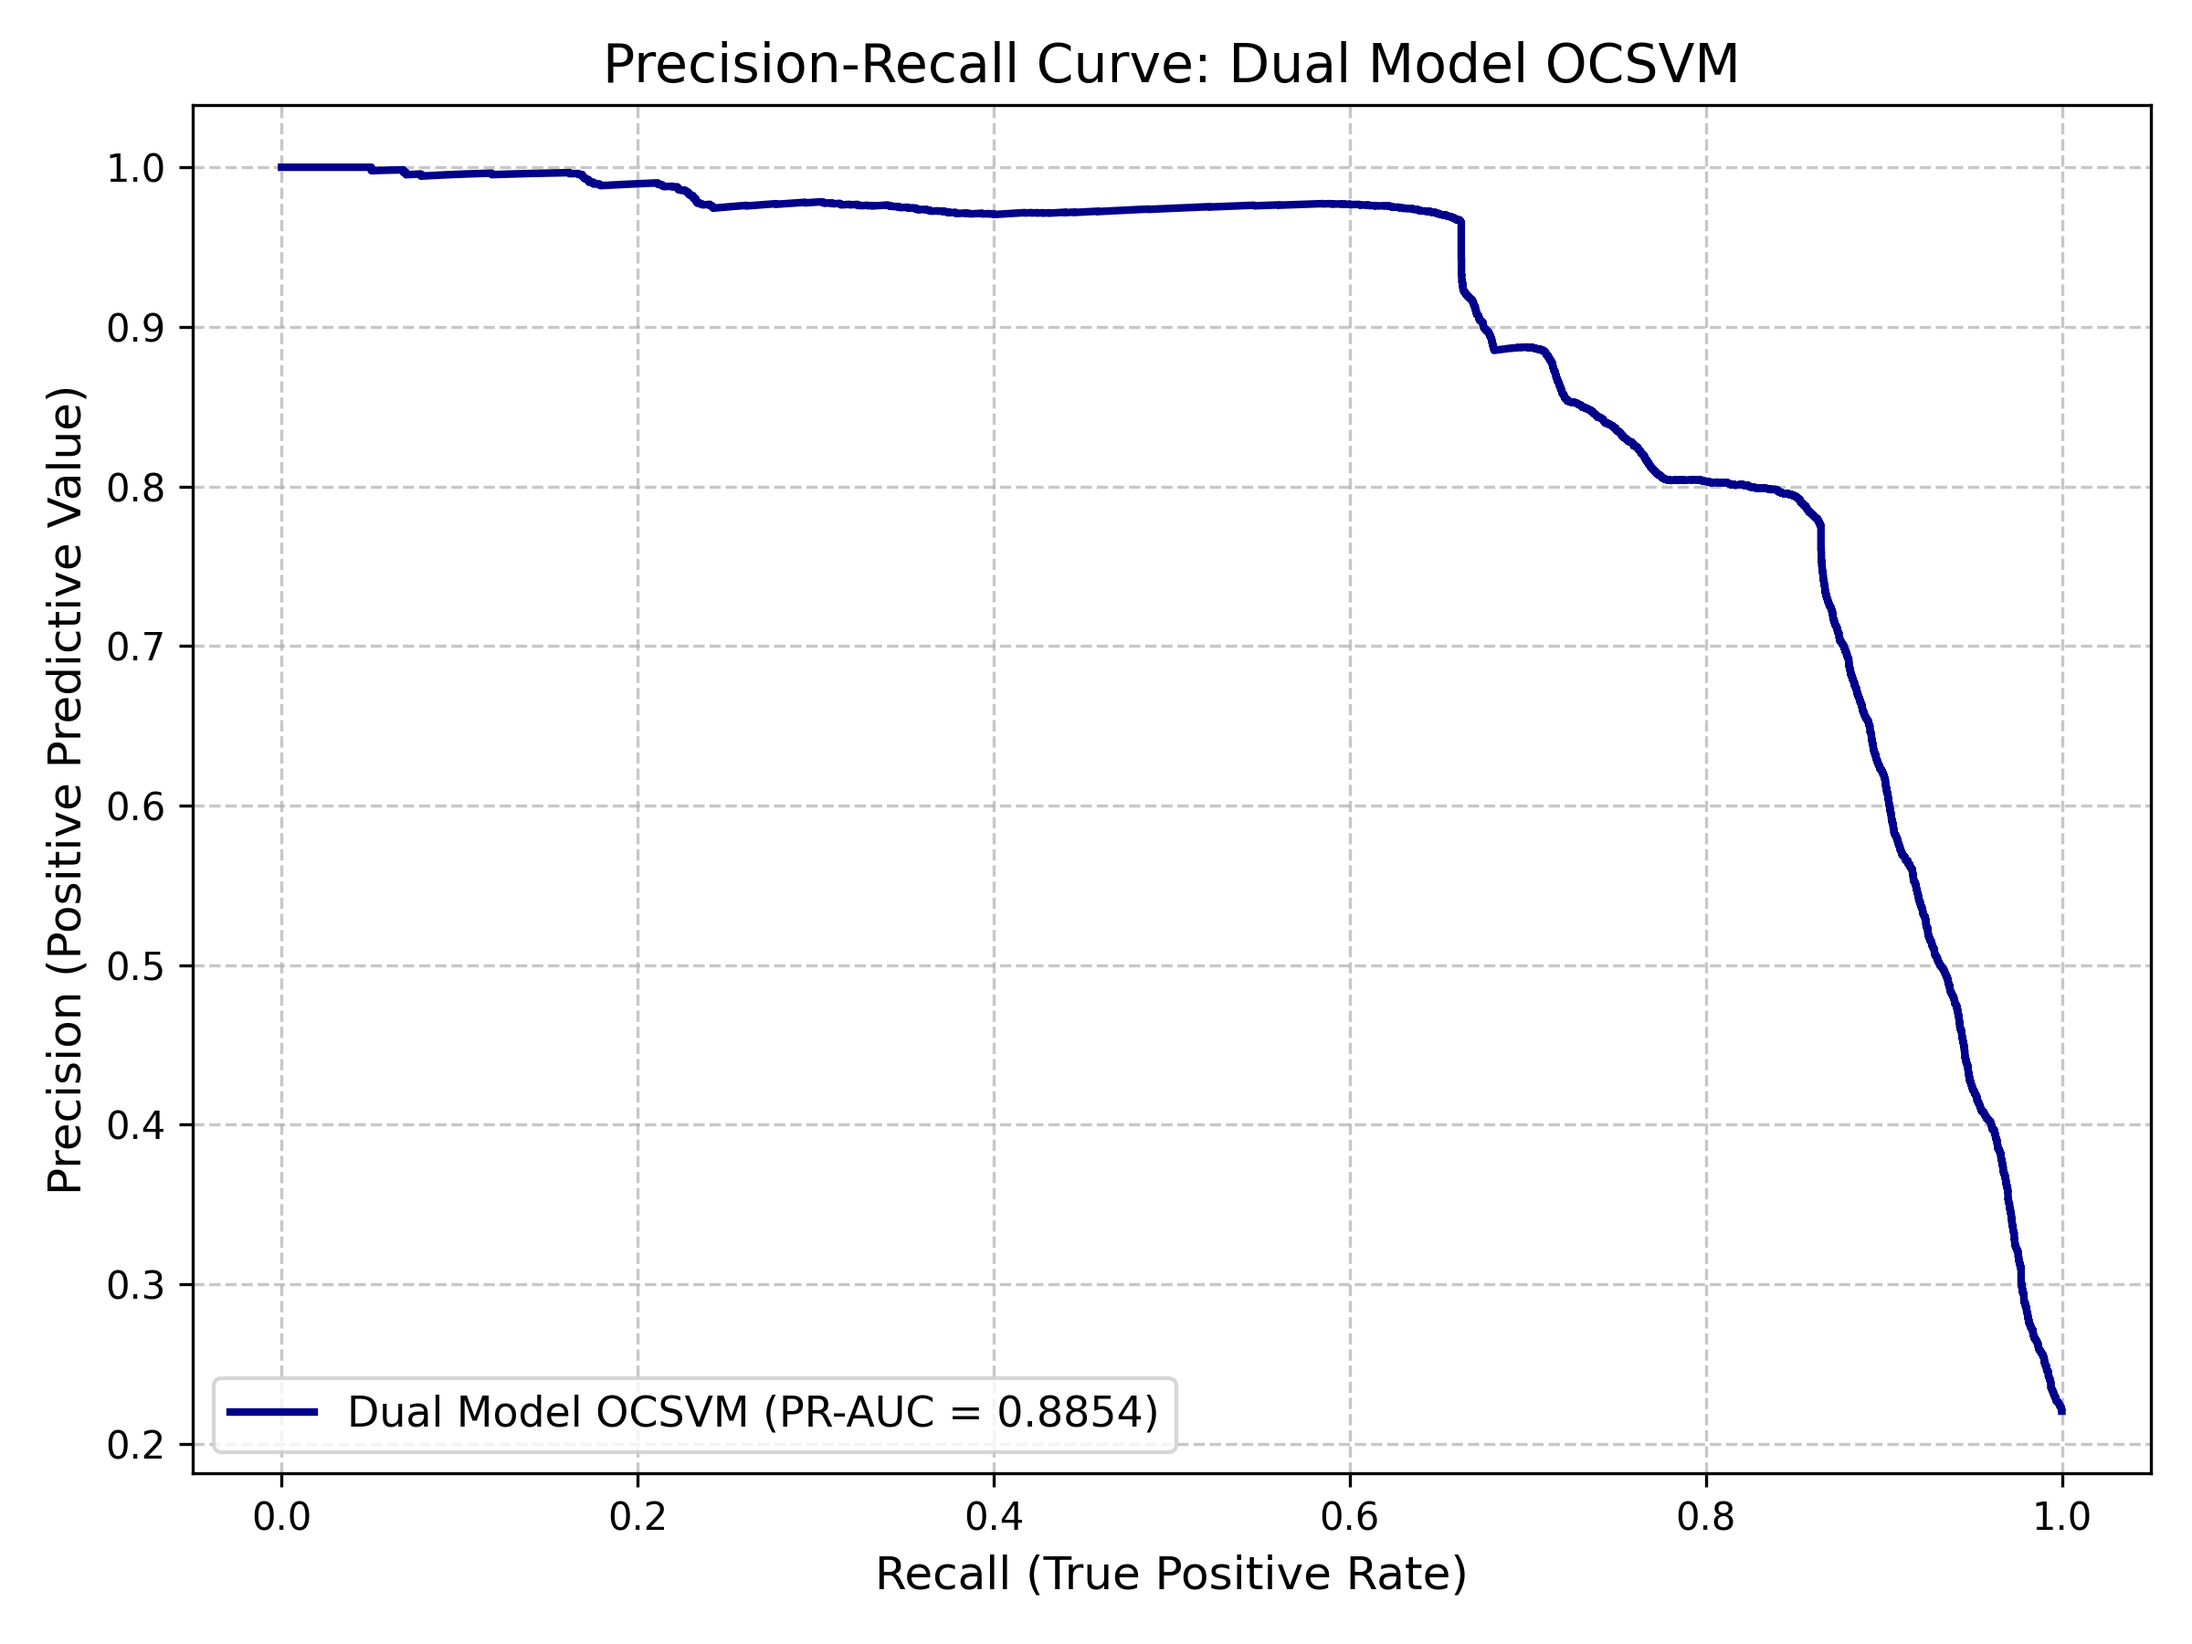
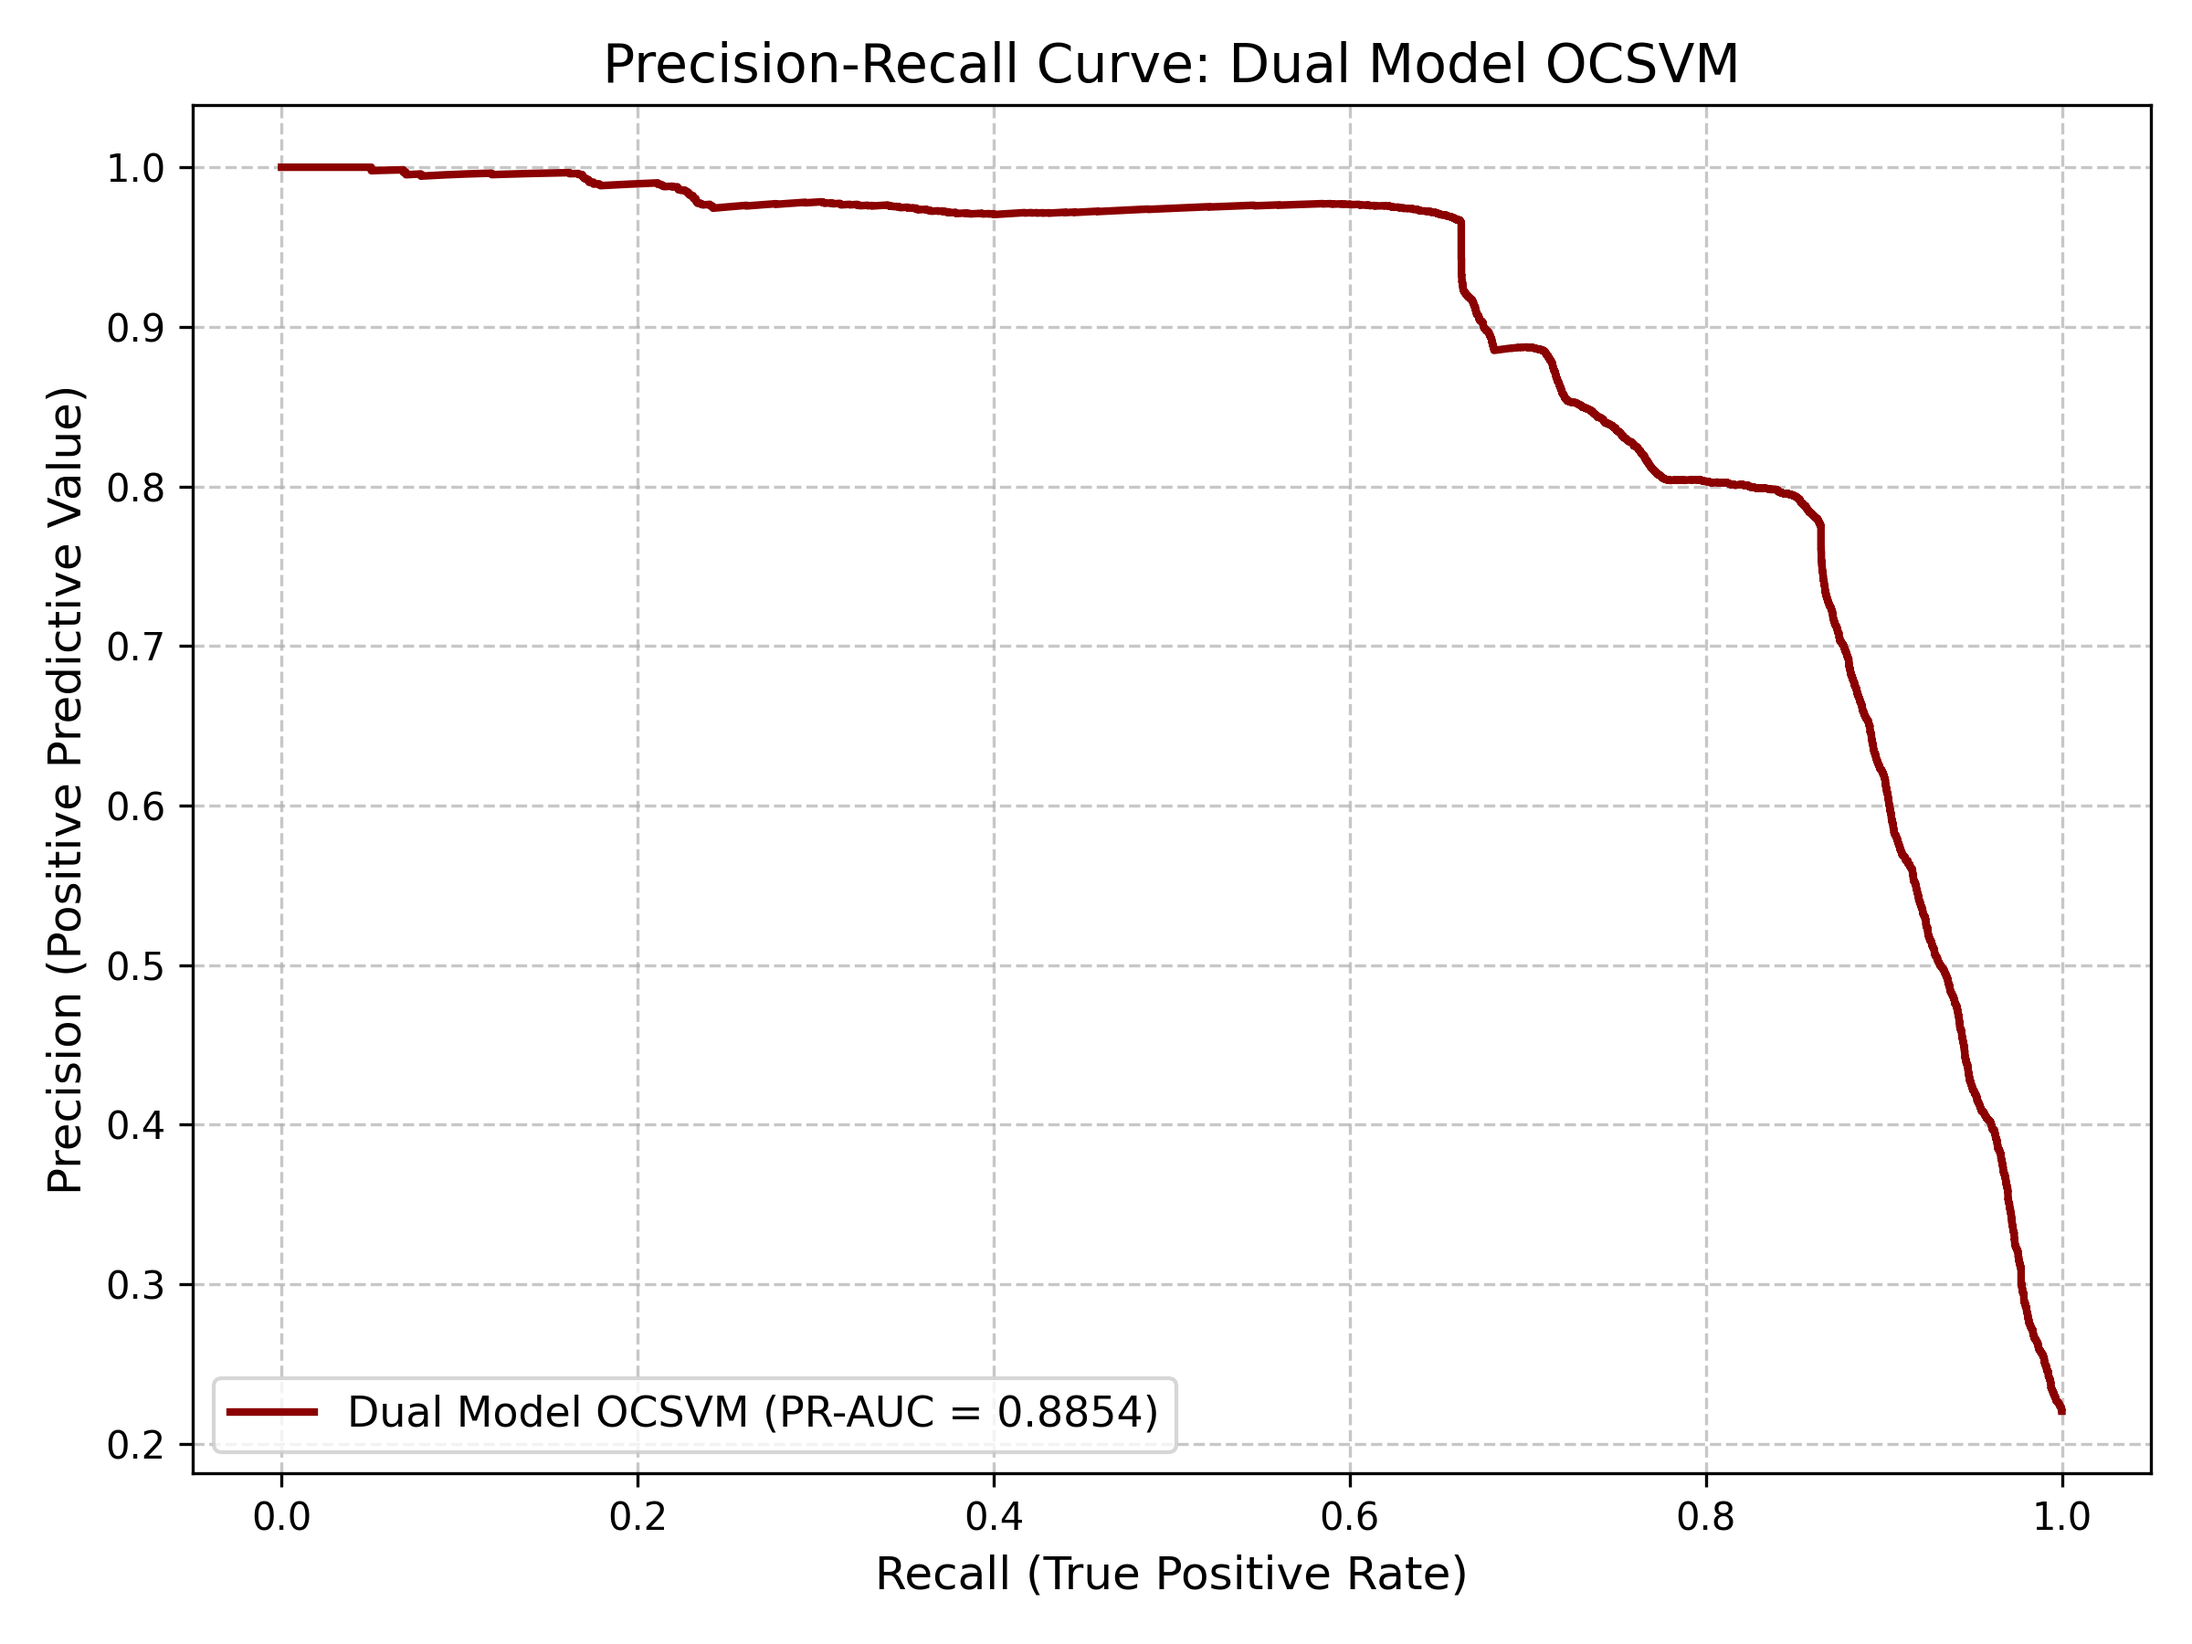
Fixes

diff --git a/Dataset/singlePacketSplitter.py b/Dataset/singlePacketSplitter.py
@@ -1,6 +1,7 @@
 import csv
 import random
 
+# --- CONFIGURATION ---
 # Input files
 NORMAL_FILE = "/home/spritz/storage/disk0/Master_Thesis/Dataset/normal_traffic.txt"
 ATTACK_FILE = "/home/spritz/storage/disk0/Master_Thesis/Dataset/attack_traffic.txt"
@@ -9,6 +10,8 @@ ATTACK_FILE = "/home/spritz/storage/disk0/Master_Thesis/Dataset/attack_traffic.t
 TRAIN_FILE = "train.txt"
 VAL_FILE = "validation.txt"
 TEST_FILE = "test.txt"
+
+COL_IDX_TIME = 5 # L'indice del timestamp (in base alla tua struttura dati)
 
 # -----------------------
 # Step 1: Load normal and attack CSV rows
@@ -65,11 +68,35 @@ def write_csv(path, rows):
         writer.writerows(rows)
 
 print("Writing splits...")
-write_csv(f"/home/spritz/storage/disk0/Master_Thesis/Dataset/splits/{TRAIN_FILE}", train_rows)
-write_csv(f"/home/spritz/storage/disk0/Master_Thesis/Dataset/splits/{VAL_FILE}", val_rows)
-write_csv(f"/home/spritz/storage/disk0/Master_Thesis/Dataset/splits/{TEST_FILE}", test_rows)
+write_csv(f"/home/spritz/storage/disk0/Master_Thesis/Dataset/singlePacketSplits/{TRAIN_FILE}", train_rows)
+write_csv(f"/home/spritz/storage/disk0/Master_Thesis/Dataset/singlePacketSplits/{VAL_FILE}", val_rows)
+write_csv(f"/home/spritz/storage/disk0/Master_Thesis/Dataset/singlePacketSplits/{TEST_FILE}", test_rows)
 
-print(f"Files created successfully:")
+
+# -----------------------
+# Step 5: Calculate Test Set Duration
+# -----------------------
+try:
+    # Estraiamo tutti i timestamp dal test set e li convertiamo in float
+    timestamps = [float(row[COL_IDX_TIME]) for row in test_rows if len(row) > COL_IDX_TIME]
+    
+    if timestamps:
+        min_ts = min(timestamps)
+        max_ts = max(timestamps)
+        test_duration_seconds = max_ts - min_ts
+        test_duration_hours = test_duration_seconds / 3600.0
+    else:
+        test_duration_seconds = 0.0
+        test_duration_hours = 0.0
+except Exception as e:
+    print(f"Warning: Impossibile calcolare il tempo. Errore: {e}")
+    test_duration_hours = 0.0
+
+# --- STAMPA FINALE ---
+print(f"\nFiles created successfully:")
 print(f"  {TRAIN_FILE}: {len(train_rows)} rows")
 print(f"  {VAL_FILE}: {len(val_rows)} rows")
 print(f"  {TEST_FILE}: {len(test_rows)} rows ({len(test_normal_rows)} Benign + {len(test_attack_rows)} Attack)")
+print(f"\n=============================================")
+print(f"Durata Fisica del Test Set: {test_duration_hours:.2f} Ore")
+print(f"=============================================")

diff --git a/DualModelDetection/oneClassClassifierDetection/OCSVM-ISODetection.py b/DualModelDetection/oneClassClassifierDetection/OCSVM-ISODetection.py
@@ -129,12 +129,15 @@ def advanced_evaluation_for_reviewers(y_true, y_probs, model_name):
 
     matched_preds = (y_probs > matched_th).astype(int)
     cm = confusion_matrix(y_true, matched_preds)
-    matched_f1 = f1_score(y_true, matched_preds, zero_division=0)
-
+    
+    # Generate the full classification report
+    report = classification_report(y_true, matched_preds, digits=4, target_names=["Benign", "Attack"], zero_division=0)
     print(f"\n--- Performance at Matched FPR ---")
     print(f"Target FPR: {TARGET_FPR_MATCH*100:.2f}% | Actual FPR Achieved: {actual_fpr*100:.2f}%")
     print(f"Matched Threshold: {matched_th:.4f}")
-    print(f"F1-Score: {matched_f1:.4f}")
+    # Print the full table instead of just the F1-score
+    print("\nClassification Report:")
+    print(report)
     print(f"Confusion Matrix:\n[TP: {cm[1][1]:<5} | FN: {cm[1][0]:<5}]\n[FP: {cm[0][1]:<5} | TN: {cm[0][0]:<5}]")
 
     # 3. Estimated Alarms per Hour
@@ -146,7 +149,7 @@ def advanced_evaluation_for_reviewers(y_true, y_probs, model_name):
     # 4. Save PR Curve
     precision, recall, _ = precision_recall_curve(y_true, y_probs)
     plt.figure(figsize=(8, 6))
-    plt.plot(recall, precision, label=f'{model_name.replace("_", " ")} (PR-AUC = {pr_auc:.4f})', color='darkblue', lw=2)
+    plt.plot(recall, precision, label=f'{model_name.replace("_", " ")} (PR-AUC = {pr_auc:.4f})', color='darkred', lw=2)
     plt.xlabel('Recall (True Positive Rate)', fontsize=12)
     plt.ylabel('Precision (Positive Predictive Value)', fontsize=12)
     plt.title(f'Precision-Recall Curve: {model_name.replace("_", " ")}', fontsize=14)
@@ -157,7 +160,6 @@ def advanced_evaluation_for_reviewers(y_true, y_probs, model_name):
     plot_filename = f"/home/spritz/storage/disk0/Master_Thesis/ReviewerImprovements/PR_Curve_{model_name}.png"
     plt.savefig(plot_filename, format='png', dpi=300)
     print(f"\n[+] Precision-Recall curve successfully saved as '{plot_filename}'.")
-
 def main():
     print("Caricamento Dataset...")
     try:

diff --git a/SingplePacketDetection/singlePcktScoringDetection/singlePcktDetection.py b/SingplePacketDetection/singlePcktScoringDetection/singlePcktDetection.py
@@ -11,7 +11,7 @@ TEST_FILE = "/home/spritz/storage/disk0/Master_Thesis/DualModelDetection/dual_mo
 TARGET_FPRS = [0.1, 0.5, 1.0, 2.0, 3.0, 5.0, 10.0, 15.0,]
 
 # --- PARAMETRI PER LE METRICHE AVANZATE (REVIEWER) ---
-TEST_SET_HOURS = 11.7     # <-- AGGIORNA QUESTO VALORE CON LE ORE REALI DEL TEST SET
+TEST_SET_HOURS = 76.58     # <-- AGGIORNA QUESTO VALORE CON LE ORE REALI DEL TEST SET
 TARGET_FPR_MATCH = 0.0112 # <-- FPR 1.12% da forzare/verificare (Tabella 3)
 
 def print_report(y_true, y_pred, y_probs, title):
@@ -43,12 +43,15 @@ def advanced_evaluation_for_reviewers(y_true, y_probs, model_name):
 
     matched_preds = (y_probs > matched_th).astype(int)
     cm = confusion_matrix(y_true, matched_preds)
-    matched_f1 = f1_score(y_true, matched_preds, zero_division=0)
-
+    
+    # Generate the full classification report
+    report = classification_report(y_true, matched_preds, digits=4, target_names=["Benign", "Attack"], zero_division=0)
     print(f"\n--- Performance at Matched FPR ---")
     print(f"Target FPR: {TARGET_FPR_MATCH*100:.2f}% | Actual FPR Achieved: {actual_fpr*100:.2f}%")
     print(f"Matched Threshold: {matched_th:.4f}")
-    print(f"F1-Score: {matched_f1:.4f}")
+    # Print the full table instead of just the F1-score
+    print("\nClassification Report:")
+    print(report)
     print(f"Confusion Matrix:\n[TP: {cm[1][1]:<5} | FN: {cm[1][0]:<5}]\n[FP: {cm[0][1]:<5} | TN: {cm[0][0]:<5}]")
 
     # 3. Estimated Alarms per Hour
